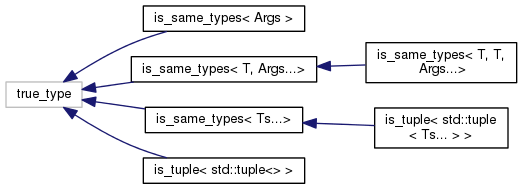
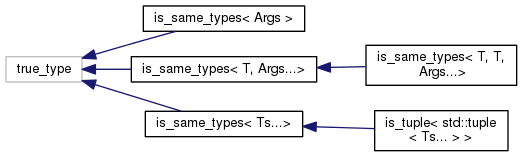
Deploy tatyana-otus/print_ip to github.com/tatyana-otus/print_ip.git:gh-pages

Changed region(s): [[0.0, 0.0256, 1.0, 0.9744], [0.1836, 0.6667, 0.2141, 0.7179]]

diff --git a/print__tuple_8h_source.html b/print__tuple_8h_source.html
@@ -113,42 +113,39 @@ var searchBox = new SearchBox("searchBox", "search",false,'Search');
 <div class="line"><a name="l00035"></a><span class="lineno">   35</span>&#160;<span class="keyword">template</span> &lt;<span class="keyword">typename</span>... Ts&gt; </div>
 <div class="line"><a name="l00036"></a><span class="lineno"><a class="line" href="structis__tuple_3_01std_1_1tuple_3_01Ts_8_8_8_01_4_01_4.html">   36</a></span>&#160;<span class="keyword">struct </span><a class="code" href="structis__tuple.html">is_tuple</a>&lt;std::tuple&lt;Ts... &gt;&gt; : <a class="code" href="structis__same__types.html">is_same_types</a>&lt;Ts...&gt; {};</div>
 <div class="line"><a name="l00037"></a><span class="lineno">   37</span>&#160;</div>
-<div class="line"><a name="l00038"></a><span class="lineno">   38</span>&#160;<span class="keyword">template</span> &lt;&gt; </div>
-<div class="line"><a name="l00039"></a><span class="lineno"><a class="line" href="structis__tuple_3_01std_1_1tuple_3_4_01_4.html">   39</a></span>&#160;<span class="keyword">struct </span><a class="code" href="structis__tuple.html">is_tuple</a>&lt;std::tuple&lt;&gt;&gt; : std::true_type {};</div>
-<div class="line"><a name="l00040"></a><span class="lineno">   40</span>&#160;</div>
+<div class="line"><a name="l00038"></a><span class="lineno">   38</span>&#160;</div>
+<div class="line"><a name="l00039"></a><span class="lineno">   39</span>&#160;<span class="keyword">template</span>&lt; <span class="keyword">typename</span>... Ts&gt;</div>
+<div class="line"><a name="l00040"></a><span class="lineno"><a class="line" href="print__tuple_8h.html#a7f6f282ffeac81407489efbeee474dce">   40</a></span>&#160;constexpr <span class="keywordtype">bool</span> <a class="code" href="print__tuple_8h.html#a7f6f282ffeac81407489efbeee474dce">is_tuple_v</a> = <a class="code" href="structis__tuple.html">is_tuple</a>&lt;Ts...&gt;::value;</div>
 <div class="line"><a name="l00041"></a><span class="lineno">   41</span>&#160;</div>
-<div class="line"><a name="l00042"></a><span class="lineno">   42</span>&#160;<span class="keyword">template</span>&lt; <span class="keyword">typename</span>... Ts&gt;</div>
-<div class="line"><a name="l00043"></a><span class="lineno"><a class="line" href="print__tuple_8h.html#a7f6f282ffeac81407489efbeee474dce">   43</a></span>&#160;constexpr <span class="keywordtype">bool</span> <a class="code" href="print__tuple_8h.html#a7f6f282ffeac81407489efbeee474dce">is_tuple_v</a> = <a class="code" href="structis__tuple.html">is_tuple</a>&lt;Ts...&gt;::value;</div>
-<div class="line"><a name="l00044"></a><span class="lineno">   44</span>&#160;</div>
-<div class="line"><a name="l00048"></a><span class="lineno">   48</span>&#160;<span class="keyword">template</span>&lt;<span class="keyword">typename</span> T, std::<span class="keywordtype">size_t</span> N&gt;</div>
-<div class="line"><a name="l00049"></a><span class="lineno"><a class="line" href="structtuple__p.html">   49</a></span>&#160;<span class="keyword">struct </span><a class="code" href="structtuple__p.html">tuple_p</a> {</div>
-<div class="line"><a name="l00050"></a><span class="lineno"><a class="line" href="structtuple__p.html#a52bdd2099cb15ff7eb9980a1c0945101">   50</a></span>&#160;    <span class="keyword">static</span> <span class="keywordtype">void</span> <a class="code" href="structtuple__p.html#a52bdd2099cb15ff7eb9980a1c0945101">print</a>(std::ostream&amp; os, <span class="keyword">const</span> T&amp; t) </div>
-<div class="line"><a name="l00051"></a><span class="lineno">   51</span>&#160;    {</div>
-<div class="line"><a name="l00052"></a><span class="lineno">   52</span>&#160;        <a class="code" href="structtuple__p.html#a52bdd2099cb15ff7eb9980a1c0945101">tuple_p&lt;T, N-1&gt;::print</a>(os, t);</div>
-<div class="line"><a name="l00053"></a><span class="lineno">   53</span>&#160;        os &lt;&lt; <span class="stringliteral">&quot;.&quot;</span> &lt;&lt; std::get&lt;N-1&gt;(t);</div>
-<div class="line"><a name="l00054"></a><span class="lineno">   54</span>&#160;    }</div>
-<div class="line"><a name="l00055"></a><span class="lineno">   55</span>&#160;};</div>
-<div class="line"><a name="l00056"></a><span class="lineno">   56</span>&#160;</div>
-<div class="line"><a name="l00060"></a><span class="lineno">   60</span>&#160;<span class="keyword">template</span>&lt;<span class="keyword">typename</span> T&gt;</div>
-<div class="line"><a name="l00061"></a><span class="lineno"><a class="line" href="structtuple__p_3_01T_00_011_01_4.html">   61</a></span>&#160;<span class="keyword">struct </span><a class="code" href="structtuple__p.html">tuple_p</a>&lt;T, 1&gt; {</div>
-<div class="line"><a name="l00062"></a><span class="lineno"><a class="line" href="structtuple__p_3_01T_00_011_01_4.html#afb3e838a7fb2352557319b965c6fa982">   62</a></span>&#160;    <span class="keyword">static</span> <span class="keywordtype">void</span> <a class="code" href="structtuple__p_3_01T_00_011_01_4.html#afb3e838a7fb2352557319b965c6fa982">print</a>(std::ostream&amp; os, <span class="keyword">const</span> T&amp; t) </div>
-<div class="line"><a name="l00063"></a><span class="lineno">   63</span>&#160;    {</div>
-<div class="line"><a name="l00064"></a><span class="lineno">   64</span>&#160;        os &lt;&lt; std::get&lt;0&gt;(t);</div>
-<div class="line"><a name="l00065"></a><span class="lineno">   65</span>&#160;    }</div>
-<div class="line"><a name="l00066"></a><span class="lineno">   66</span>&#160;};</div>
-<div class="line"><a name="l00067"></a><span class="lineno">   67</span>&#160;</div>
-<div class="line"><a name="l00071"></a><span class="lineno">   71</span>&#160;<span class="keyword">template</span>&lt;<span class="keyword">typename</span> T&gt;</div>
-<div class="line"><a name="l00072"></a><span class="lineno"><a class="line" href="structtuple__p_3_01T_00_010_01_4.html">   72</a></span>&#160;<span class="keyword">struct </span><a class="code" href="structtuple__p.html">tuple_p</a>&lt;T, 0&gt; {</div>
-<div class="line"><a name="l00073"></a><span class="lineno"><a class="line" href="structtuple__p_3_01T_00_010_01_4.html#adcc1ca29bc3ad189ab5596f4b688982f">   73</a></span>&#160;    <span class="keyword">static</span> <span class="keywordtype">void</span> <a class="code" href="structtuple__p_3_01T_00_010_01_4.html#adcc1ca29bc3ad189ab5596f4b688982f">print</a>(std::ostream&amp; os, <span class="keyword">const</span> T&amp; t) {}</div>
-<div class="line"><a name="l00074"></a><span class="lineno">   74</span>&#160;};</div>
+<div class="line"><a name="l00045"></a><span class="lineno">   45</span>&#160;<span class="keyword">template</span>&lt;<span class="keyword">typename</span> T, std::<span class="keywordtype">size_t</span> N&gt;</div>
+<div class="line"><a name="l00046"></a><span class="lineno"><a class="line" href="structtuple__p.html">   46</a></span>&#160;<span class="keyword">struct </span><a class="code" href="structtuple__p.html">tuple_p</a> {</div>
+<div class="line"><a name="l00047"></a><span class="lineno"><a class="line" href="structtuple__p.html#a52bdd2099cb15ff7eb9980a1c0945101">   47</a></span>&#160;    <span class="keyword">static</span> <span class="keywordtype">void</span> <a class="code" href="structtuple__p.html#a52bdd2099cb15ff7eb9980a1c0945101">print</a>(std::ostream&amp; os, <span class="keyword">const</span> T&amp; t) </div>
+<div class="line"><a name="l00048"></a><span class="lineno">   48</span>&#160;    {</div>
+<div class="line"><a name="l00049"></a><span class="lineno">   49</span>&#160;        <a class="code" href="structtuple__p.html#a52bdd2099cb15ff7eb9980a1c0945101">tuple_p&lt;T, N-1&gt;::print</a>(os, t);</div>
+<div class="line"><a name="l00050"></a><span class="lineno">   50</span>&#160;        os &lt;&lt; <span class="stringliteral">&quot;.&quot;</span> &lt;&lt; std::get&lt;N-1&gt;(t);</div>
+<div class="line"><a name="l00051"></a><span class="lineno">   51</span>&#160;    }</div>
+<div class="line"><a name="l00052"></a><span class="lineno">   52</span>&#160;};</div>
+<div class="line"><a name="l00053"></a><span class="lineno">   53</span>&#160;</div>
+<div class="line"><a name="l00057"></a><span class="lineno">   57</span>&#160;<span class="keyword">template</span>&lt;<span class="keyword">typename</span> T&gt;</div>
+<div class="line"><a name="l00058"></a><span class="lineno"><a class="line" href="structtuple__p_3_01T_00_011_01_4.html">   58</a></span>&#160;<span class="keyword">struct </span><a class="code" href="structtuple__p.html">tuple_p</a>&lt;T, 1&gt; {</div>
+<div class="line"><a name="l00059"></a><span class="lineno"><a class="line" href="structtuple__p_3_01T_00_011_01_4.html#afb3e838a7fb2352557319b965c6fa982">   59</a></span>&#160;    <span class="keyword">static</span> <span class="keywordtype">void</span> <a class="code" href="structtuple__p_3_01T_00_011_01_4.html#afb3e838a7fb2352557319b965c6fa982">print</a>(std::ostream&amp; os, <span class="keyword">const</span> T&amp; t) </div>
+<div class="line"><a name="l00060"></a><span class="lineno">   60</span>&#160;    {</div>
+<div class="line"><a name="l00061"></a><span class="lineno">   61</span>&#160;        os &lt;&lt; std::get&lt;0&gt;(t);</div>
+<div class="line"><a name="l00062"></a><span class="lineno">   62</span>&#160;    }</div>
+<div class="line"><a name="l00063"></a><span class="lineno">   63</span>&#160;};</div>
+<div class="line"><a name="l00064"></a><span class="lineno">   64</span>&#160;</div>
+<div class="line"><a name="l00068"></a><span class="lineno">   68</span>&#160;<span class="keyword">template</span>&lt;<span class="keyword">typename</span> T&gt;</div>
+<div class="line"><a name="l00069"></a><span class="lineno"><a class="line" href="structtuple__p_3_01T_00_010_01_4.html">   69</a></span>&#160;<span class="keyword">struct </span><a class="code" href="structtuple__p.html">tuple_p</a>&lt;T, 0&gt; {</div>
+<div class="line"><a name="l00070"></a><span class="lineno"><a class="line" href="structtuple__p_3_01T_00_010_01_4.html#adcc1ca29bc3ad189ab5596f4b688982f">   70</a></span>&#160;    <span class="keyword">static</span> <span class="keywordtype">void</span> <a class="code" href="structtuple__p_3_01T_00_010_01_4.html#adcc1ca29bc3ad189ab5596f4b688982f">print</a>(std::ostream&amp; os, <span class="keyword">const</span> T&amp; t) {}</div>
+<div class="line"><a name="l00071"></a><span class="lineno">   71</span>&#160;};</div>
 <div class="ttc" id="debug__log_8h_html"><div class="ttname"><a href="debug__log_8h.html">debug_log.h</a></div></div>
-<div class="ttc" id="structtuple__p_html"><div class="ttname"><a href="structtuple__p.html">tuple_p</a></div><div class="ttdef"><b>Definition:</b> print_tuple.h:49</div></div>
+<div class="ttc" id="structtuple__p_html"><div class="ttname"><a href="structtuple__p.html">tuple_p</a></div><div class="ttdef"><b>Definition:</b> print_tuple.h:46</div></div>
 <div class="ttc" id="print__tuple_8h_html_aa6c6bde5fd020a928e6d7b5fe8db7bb0"><div class="ttname"><a href="print__tuple_8h.html#aa6c6bde5fd020a928e6d7b5fe8db7bb0">is_same_v</a></div><div class="ttdeci">constexpr bool is_same_v</div><div class="ttdef"><b>Definition:</b> print_tuple.h:8</div></div>
-<div class="ttc" id="structtuple__p_3_01T_00_011_01_4_html_afb3e838a7fb2352557319b965c6fa982"><div class="ttname"><a href="structtuple__p_3_01T_00_011_01_4.html#afb3e838a7fb2352557319b965c6fa982">tuple_p&lt; T, 1 &gt;::print</a></div><div class="ttdeci">static void print(std::ostream &amp;os, const T &amp;t)</div><div class="ttdef"><b>Definition:</b> print_tuple.h:62</div></div>
-<div class="ttc" id="print__tuple_8h_html_a7f6f282ffeac81407489efbeee474dce"><div class="ttname"><a href="print__tuple_8h.html#a7f6f282ffeac81407489efbeee474dce">is_tuple_v</a></div><div class="ttdeci">constexpr bool is_tuple_v</div><div class="ttdef"><b>Definition:</b> print_tuple.h:43</div></div>
+<div class="ttc" id="structtuple__p_3_01T_00_011_01_4_html_afb3e838a7fb2352557319b965c6fa982"><div class="ttname"><a href="structtuple__p_3_01T_00_011_01_4.html#afb3e838a7fb2352557319b965c6fa982">tuple_p&lt; T, 1 &gt;::print</a></div><div class="ttdeci">static void print(std::ostream &amp;os, const T &amp;t)</div><div class="ttdef"><b>Definition:</b> print_tuple.h:59</div></div>
+<div class="ttc" id="print__tuple_8h_html_a7f6f282ffeac81407489efbeee474dce"><div class="ttname"><a href="print__tuple_8h.html#a7f6f282ffeac81407489efbeee474dce">is_tuple_v</a></div><div class="ttdeci">constexpr bool is_tuple_v</div><div class="ttdef"><b>Definition:</b> print_tuple.h:40</div></div>
 <div class="ttc" id="structis__tuple_html"><div class="ttname"><a href="structis__tuple.html">is_tuple</a></div><div class="ttdef"><b>Definition:</b> print_tuple.h:29</div></div>
-<div class="ttc" id="structtuple__p_3_01T_00_010_01_4_html_adcc1ca29bc3ad189ab5596f4b688982f"><div class="ttname"><a href="structtuple__p_3_01T_00_010_01_4.html#adcc1ca29bc3ad189ab5596f4b688982f">tuple_p&lt; T, 0 &gt;::print</a></div><div class="ttdeci">static void print(std::ostream &amp;os, const T &amp;t)</div><div class="ttdef"><b>Definition:</b> print_tuple.h:73</div></div>
-<div class="ttc" id="structtuple__p_html_a52bdd2099cb15ff7eb9980a1c0945101"><div class="ttname"><a href="structtuple__p.html#a52bdd2099cb15ff7eb9980a1c0945101">tuple_p::print</a></div><div class="ttdeci">static void print(std::ostream &amp;os, const T &amp;t)</div><div class="ttdef"><b>Definition:</b> print_tuple.h:50</div></div>
+<div class="ttc" id="structtuple__p_3_01T_00_010_01_4_html_adcc1ca29bc3ad189ab5596f4b688982f"><div class="ttname"><a href="structtuple__p_3_01T_00_010_01_4.html#adcc1ca29bc3ad189ab5596f4b688982f">tuple_p&lt; T, 0 &gt;::print</a></div><div class="ttdeci">static void print(std::ostream &amp;os, const T &amp;t)</div><div class="ttdef"><b>Definition:</b> print_tuple.h:70</div></div>
+<div class="ttc" id="structtuple__p_html_a52bdd2099cb15ff7eb9980a1c0945101"><div class="ttname"><a href="structtuple__p.html#a52bdd2099cb15ff7eb9980a1c0945101">tuple_p::print</a></div><div class="ttdeci">static void print(std::ostream &amp;os, const T &amp;t)</div><div class="ttdef"><b>Definition:</b> print_tuple.h:47</div></div>
 <div class="ttc" id="structis__same__types_html"><div class="ttname"><a href="structis__same__types.html">is_same_types</a></div><div class="ttdef"><b>Definition:</b> print_tuple.h:15</div></div>
 </div><!-- fragment --></div><!-- contents -->
 <!-- start footer part -->

diff --git a/hierarchy.html b/hierarchy.html
@@ -97,12 +97,11 @@ This inheritance list is sorted roughly, but not completely, alphabetically:</di
 <tr id="row_1_0_" class="even"><td class="entry"><img src="ftv2vertline.png" alt="|" width="16" height="22" /><img src="ftv2node.png" alt="o" width="16" height="22" /><img src="ftv2cl.png" alt="C" width="24" height="22" /><a class="el" href="structis__same__types.html" target="_self">is_same_types&lt; Args &gt;</a></td><td class="desc"></td></tr>
 <tr id="row_1_1_"><td class="entry"><img src="ftv2vertline.png" alt="|" width="16" height="22" /><img id="arr_1_1_" src="ftv2mnode.png" alt="o" width="16" height="22" onclick="toggleFolder('1_1_')"/><img src="ftv2cl.png" alt="C" width="24" height="22" /><a class="el" href="structis__same__types.html" target="_self">is_same_types&lt; T, Args...&gt;</a></td><td class="desc"></td></tr>
 <tr id="row_1_1_0_" class="even"><td class="entry"><img src="ftv2vertline.png" alt="|" width="16" height="22" /><img src="ftv2vertline.png" alt="|" width="16" height="22" /><img src="ftv2lastnode.png" alt="\" width="16" height="22" /><img src="ftv2cl.png" alt="C" width="24" height="22" /><a class="el" href="structis__same__types_3_01T_00_01T_00_01Args_8_8_8_4.html" target="_self">is_same_types&lt; T, T, Args...&gt;</a></td><td class="desc"></td></tr>
-<tr id="row_1_2_"><td class="entry"><img src="ftv2vertline.png" alt="|" width="16" height="22" /><img id="arr_1_2_" src="ftv2mnode.png" alt="o" width="16" height="22" onclick="toggleFolder('1_2_')"/><img src="ftv2cl.png" alt="C" width="24" height="22" /><a class="el" href="structis__same__types.html" target="_self">is_same_types&lt; Ts...&gt;</a></td><td class="desc"></td></tr>
-<tr id="row_1_2_0_" class="even"><td class="entry"><img src="ftv2vertline.png" alt="|" width="16" height="22" /><img src="ftv2vertline.png" alt="|" width="16" height="22" /><img src="ftv2lastnode.png" alt="\" width="16" height="22" /><img src="ftv2cl.png" alt="C" width="24" height="22" /><a class="el" href="structis__tuple_3_01std_1_1tuple_3_01Ts_8_8_8_01_4_01_4.html" target="_self">is_tuple&lt; std::tuple&lt; Ts... &gt; &gt;</a></td><td class="desc"></td></tr>
-<tr id="row_1_3_"><td class="entry"><img src="ftv2vertline.png" alt="|" width="16" height="22" /><img src="ftv2lastnode.png" alt="\" width="16" height="22" /><img src="ftv2cl.png" alt="C" width="24" height="22" /><a class="el" href="structis__tuple_3_01std_1_1tuple_3_4_01_4.html" target="_self">is_tuple&lt; std::tuple&lt;&gt; &gt;</a></td><td class="desc"></td></tr>
-<tr id="row_2_" class="even"><td class="entry"><img src="ftv2node.png" alt="o" width="16" height="22" /><img src="ftv2cl.png" alt="C" width="24" height="22" /><a class="el" href="structtuple__p.html" target="_self">tuple_p&lt; T, N &gt;</a></td><td class="desc"></td></tr>
-<tr id="row_3_"><td class="entry"><img src="ftv2node.png" alt="o" width="16" height="22" /><img src="ftv2cl.png" alt="C" width="24" height="22" /><a class="el" href="structtuple__p_3_01T_00_010_01_4.html" target="_self">tuple_p&lt; T, 0 &gt;</a></td><td class="desc"></td></tr>
-<tr id="row_4_" class="even"><td class="entry"><img src="ftv2lastnode.png" alt="\" width="16" height="22" /><img src="ftv2cl.png" alt="C" width="24" height="22" /><a class="el" href="structtuple__p_3_01T_00_011_01_4.html" target="_self">tuple_p&lt; T, 1 &gt;</a></td><td class="desc"></td></tr>
+<tr id="row_1_2_"><td class="entry"><img src="ftv2vertline.png" alt="|" width="16" height="22" /><img id="arr_1_2_" src="ftv2mlastnode.png" alt="\" width="16" height="22" onclick="toggleFolder('1_2_')"/><img src="ftv2cl.png" alt="C" width="24" height="22" /><a class="el" href="structis__same__types.html" target="_self">is_same_types&lt; Ts...&gt;</a></td><td class="desc"></td></tr>
+<tr id="row_1_2_0_" class="even"><td class="entry"><img src="ftv2vertline.png" alt="|" width="16" height="22" /><img src="ftv2blank.png" alt="&#160;" width="16" height="22" /><img src="ftv2lastnode.png" alt="\" width="16" height="22" /><img src="ftv2cl.png" alt="C" width="24" height="22" /><a class="el" href="structis__tuple_3_01std_1_1tuple_3_01Ts_8_8_8_01_4_01_4.html" target="_self">is_tuple&lt; std::tuple&lt; Ts... &gt; &gt;</a></td><td class="desc"></td></tr>
+<tr id="row_2_"><td class="entry"><img src="ftv2node.png" alt="o" width="16" height="22" /><img src="ftv2cl.png" alt="C" width="24" height="22" /><a class="el" href="structtuple__p.html" target="_self">tuple_p&lt; T, N &gt;</a></td><td class="desc"></td></tr>
+<tr id="row_3_" class="even"><td class="entry"><img src="ftv2node.png" alt="o" width="16" height="22" /><img src="ftv2cl.png" alt="C" width="24" height="22" /><a class="el" href="structtuple__p_3_01T_00_010_01_4.html" target="_self">tuple_p&lt; T, 0 &gt;</a></td><td class="desc"></td></tr>
+<tr id="row_4_"><td class="entry"><img src="ftv2lastnode.png" alt="\" width="16" height="22" /><img src="ftv2cl.png" alt="C" width="24" height="22" /><a class="el" href="structtuple__p_3_01T_00_011_01_4.html" target="_self">tuple_p&lt; T, 1 &gt;</a></td><td class="desc"></td></tr>
 </table>
 </div><!-- directory -->
 </div><!-- contents -->

diff --git a/annotated.html b/annotated.html
@@ -93,10 +93,9 @@ var searchBox = new SearchBox("searchBox", "search",false,'Search');
 <tr id="row_2_" class="even"><td class="entry"><img src="ftv2node.png" alt="o" width="16" height="22" /><img src="ftv2cl.png" alt="C" width="24" height="22" /><a class="el" href="structis__same__types_3_01T_00_01U_00_01Args_8_8_8_4.html" target="_self">is_same_types&lt; T, U, Args...&gt;</a></td><td class="desc"></td></tr>
 <tr id="row_3_"><td class="entry"><img src="ftv2node.png" alt="o" width="16" height="22" /><img src="ftv2cl.png" alt="C" width="24" height="22" /><a class="el" href="structis__tuple.html" target="_self">is_tuple</a></td><td class="desc"></td></tr>
 <tr id="row_4_" class="even"><td class="entry"><img src="ftv2node.png" alt="o" width="16" height="22" /><img src="ftv2cl.png" alt="C" width="24" height="22" /><a class="el" href="structis__tuple_3_01std_1_1tuple_3_01Ts_8_8_8_01_4_01_4.html" target="_self">is_tuple&lt; std::tuple&lt; Ts... &gt; &gt;</a></td><td class="desc"></td></tr>
-<tr id="row_5_"><td class="entry"><img src="ftv2node.png" alt="o" width="16" height="22" /><img src="ftv2cl.png" alt="C" width="24" height="22" /><a class="el" href="structis__tuple_3_01std_1_1tuple_3_4_01_4.html" target="_self">is_tuple&lt; std::tuple&lt;&gt; &gt;</a></td><td class="desc"></td></tr>
-<tr id="row_6_" class="even"><td class="entry"><img src="ftv2node.png" alt="o" width="16" height="22" /><img src="ftv2cl.png" alt="C" width="24" height="22" /><a class="el" href="structtuple__p.html" target="_self">tuple_p</a></td><td class="desc"></td></tr>
-<tr id="row_7_"><td class="entry"><img src="ftv2node.png" alt="o" width="16" height="22" /><img src="ftv2cl.png" alt="C" width="24" height="22" /><a class="el" href="structtuple__p_3_01T_00_010_01_4.html" target="_self">tuple_p&lt; T, 0 &gt;</a></td><td class="desc"></td></tr>
-<tr id="row_8_" class="even"><td class="entry"><img src="ftv2lastnode.png" alt="\" width="16" height="22" /><img src="ftv2cl.png" alt="C" width="24" height="22" /><a class="el" href="structtuple__p_3_01T_00_011_01_4.html" target="_self">tuple_p&lt; T, 1 &gt;</a></td><td class="desc"></td></tr>
+<tr id="row_5_"><td class="entry"><img src="ftv2node.png" alt="o" width="16" height="22" /><img src="ftv2cl.png" alt="C" width="24" height="22" /><a class="el" href="structtuple__p.html" target="_self">tuple_p</a></td><td class="desc"></td></tr>
+<tr id="row_6_" class="even"><td class="entry"><img src="ftv2node.png" alt="o" width="16" height="22" /><img src="ftv2cl.png" alt="C" width="24" height="22" /><a class="el" href="structtuple__p_3_01T_00_010_01_4.html" target="_self">tuple_p&lt; T, 0 &gt;</a></td><td class="desc"></td></tr>
+<tr id="row_7_"><td class="entry"><img src="ftv2lastnode.png" alt="\" width="16" height="22" /><img src="ftv2cl.png" alt="C" width="24" height="22" /><a class="el" href="structtuple__p_3_01T_00_011_01_4.html" target="_self">tuple_p&lt; T, 1 &gt;</a></td><td class="desc"></td></tr>
 </table>
 </div><!-- directory -->
 </div><!-- contents -->

diff --git a/classes.html b/classes.html
@@ -90,10 +90,9 @@ var searchBox = new SearchBox("searchBox", "search",false,'Search');
 <table style="margin: 10px; white-space: nowrap;" align="center" width="95%" border="0" cellspacing="0" cellpadding="0">
 <tr><td rowspan="2" valign="bottom"><a name="letter_i"></a><table border="0" cellspacing="0" cellpadding="0"><tr><td><div class="ah">&#160;&#160;i&#160;&#160;</div></td></tr></table>
 </td><td valign="top"><a class="el" href="structis__same__types_3_01T_00_01T_00_01Args_8_8_8_4.html">is_same_types&lt; T, T, Args...&gt;</a>&#160;&#160;&#160;</td><td valign="top"><a class="el" href="structis__tuple_3_01std_1_1tuple_3_01Ts_8_8_8_01_4_01_4.html">is_tuple&lt; std::tuple&lt; Ts... &gt; &gt;</a>&#160;&#160;&#160;</td><td valign="top"><a class="el" href="structtuple__p_3_01T_00_010_01_4.html">tuple_p&lt; T, 0 &gt;</a>&#160;&#160;&#160;</td></tr>
-<tr><td valign="top"><a class="el" href="structis__same__types_3_01T_00_01U_00_01Args_8_8_8_4.html">is_same_types&lt; T, U, Args...&gt;</a>&#160;&#160;&#160;</td><td valign="top"><a class="el" href="structis__tuple_3_01std_1_1tuple_3_4_01_4.html">is_tuple&lt; std::tuple&lt;&gt; &gt;</a>&#160;&#160;&#160;</td><td valign="top"><a class="el" href="structtuple__p_3_01T_00_011_01_4.html">tuple_p&lt; T, 1 &gt;</a>&#160;&#160;&#160;</td></tr>
-<tr><td valign="top"><a class="el" href="structis__same__types.html">is_same_types</a>&#160;&#160;&#160;</td><td valign="top"><a class="el" href="structis__tuple.html">is_tuple</a>&#160;&#160;&#160;</td><td rowspan="2" valign="bottom"><a name="letter_t"></a><table border="0" cellspacing="0" cellpadding="0"><tr><td><div class="ah">&#160;&#160;t&#160;&#160;</div></td></tr></table>
-</td><td></td></tr>
-<tr><td></td><td></td><td></td></tr>
+<tr><td valign="top"><a class="el" href="structis__same__types_3_01T_00_01U_00_01Args_8_8_8_4.html">is_same_types&lt; T, U, Args...&gt;</a>&#160;&#160;&#160;</td><td rowspan="2" valign="bottom"><a name="letter_t"></a><table border="0" cellspacing="0" cellpadding="0"><tr><td><div class="ah">&#160;&#160;t&#160;&#160;</div></td></tr></table>
+</td><td valign="top"><a class="el" href="structtuple__p_3_01T_00_011_01_4.html">tuple_p&lt; T, 1 &gt;</a>&#160;&#160;&#160;</td></tr>
+<tr><td valign="top"><a class="el" href="structis__same__types.html">is_same_types</a>&#160;&#160;&#160;</td><td valign="top"><a class="el" href="structis__tuple.html">is_tuple</a>&#160;&#160;&#160;</td><td></td></tr>
 <tr><td></td><td></td><td valign="top"><a class="el" href="structtuple__p.html">tuple_p</a>&#160;&#160;&#160;</td><td></td></tr>
 <tr><td></td><td></td><td></td><td></td></tr>
 </table>

diff --git a/inherits.html b/inherits.html
@@ -91,7 +91,7 @@ var searchBox = new SearchBox("searchBox", "search",false,'Search');
 </div><table border="0" cellspacing="10" cellpadding="0">
 <tr><td><img src="inherit_graph_0.png" border="0" alt="" usemap="#is__same__types_3_01Args_01_4"/>
 <map name="is__same__types_3_01Args_01_4" id="is__same__types_3_01Args_01_4">
-<area shape="rect" id="node2" href="structis__same__types.html" title="is_same_types\&lt; Args \&gt;" alt="" coords="143,5,305,32"/><area shape="rect" id="node3" href="structis__same__types.html" title="is_same_types\&lt; T, Args...\&gt;" alt="" coords="131,56,317,83"/><area shape="rect" id="node5" href="structis__same__types.html" title="is_same_types\&lt; Ts...\&gt;" alt="" coords="145,107,303,133"/><area shape="rect" id="node7" href="structis__tuple_3_01std_1_1tuple_3_4_01_4.html" title="is_tuple\&lt; std::tuple\&lt;\&gt; \&gt;" alt="" coords="143,157,305,184"/><area shape="rect" id="node4" href="structis__same__types_3_01T_00_01T_00_01Args_8_8_8_4.html" title="is_same_types\&lt; T, T,\l Args...\&gt;" alt="" coords="366,42,517,83"/><area shape="rect" id="node6" href="structis__tuple_3_01std_1_1tuple_3_01Ts_8_8_8_01_4_01_4.html" title="is_tuple\&lt; std::tuple\l\&lt; Ts... \&gt; \&gt;" alt="" coords="375,107,508,149"/></map>
+<area shape="rect" id="node2" href="structis__same__types.html" title="is_same_types\&lt; Args \&gt;" alt="" coords="143,5,305,32"/><area shape="rect" id="node3" href="structis__same__types.html" title="is_same_types\&lt; T, Args...\&gt;" alt="" coords="131,56,317,83"/><area shape="rect" id="node5" href="structis__same__types.html" title="is_same_types\&lt; Ts...\&gt;" alt="" coords="145,111,303,137"/><area shape="rect" id="node4" href="structis__same__types_3_01T_00_01T_00_01Args_8_8_8_4.html" title="is_same_types\&lt; T, T,\l Args...\&gt;" alt="" coords="366,45,517,86"/><area shape="rect" id="node6" href="structis__tuple_3_01std_1_1tuple_3_01Ts_8_8_8_01_4_01_4.html" title="is_tuple\&lt; std::tuple\l\&lt; Ts... \&gt; \&gt;" alt="" coords="375,110,508,151"/></map>
 </td></tr>
 <tr><td><img src="inherit_graph_1.png" border="0" alt="" usemap="#is__same__types_3_01T_00_01U_00_01Args_8_8_8_4"/>
 <map name="is__same__types_3_01T_00_01U_00_01Args_8_8_8_4" id="is__same__types_3_01T_00_01U_00_01Args_8_8_8_4">

diff --git a/print__ip_8h_source.html b/print__ip_8h_source.html
@@ -160,7 +160,7 @@ var searchBox = new SearchBox("searchBox", "search",false,'Search');
 <div class="ttc" id="debug__log_8h_html"><div class="ttname"><a href="debug__log_8h.html">debug_log.h</a></div></div>
 <div class="ttc" id="print__ip_8h_html_ad08c4f97cceefae52f2d9f64df5ee433"><div class="ttname"><a href="print__ip_8h.html#ad08c4f97cceefae52f2d9f64df5ee433">base_print</a></div><div class="ttdeci">void base_print(std::ostream &amp;os)</div><div class="ttdef"><b>Definition:</b> print_ip.h:81</div></div>
 <div class="ttc" id="lib_8h_html"><div class="ttname"><a href="lib_8h.html">lib.h</a></div></div>
-<div class="ttc" id="structtuple__p_html"><div class="ttname"><a href="structtuple__p.html">tuple_p</a></div><div class="ttdef"><b>Definition:</b> print_tuple.h:49</div></div>
+<div class="ttc" id="structtuple__p_html"><div class="ttname"><a href="structtuple__p.html">tuple_p</a></div><div class="ttdef"><b>Definition:</b> print_tuple.h:46</div></div>
 <div class="ttc" id="print__ip_8h_html_a396e4b8c756441b942c1619de108e56a"><div class="ttname"><a href="print__ip_8h.html#a396e4b8c756441b942c1619de108e56a">is_integral_v</a></div><div class="ttdeci">constexpr bool is_integral_v</div><div class="ttdef"><b>Definition:</b> print_ip.h:13</div></div>
 <div class="ttc" id="print__tuple_8h_html"><div class="ttname"><a href="print__tuple_8h.html">print_tuple.h</a></div></div>
 <div class="ttc" id="print__ip_8h_html_ad05b39097fc0ad98456c20f2254ed672"><div class="ttname"><a href="print__ip_8h.html#ad05b39097fc0ad98456c20f2254ed672">print</a></div><div class="ttdeci">void print(std::ostream &amp;os, const std::string &amp;ip)</div><div class="ttdef"><b>Definition:</b> print_ip.h:20</div></div>

diff --git a/version_8h.html b/version_8h.html
@@ -104,7 +104,7 @@ This graph shows which files directly or indirectly include this file:</div>
 Macros</h2></td></tr>
 <tr class="memitem:abecd2198575b690d25a741857f8390d1"><td class="memItemLeft" align="right" valign="top">#define&#160;</td><td class="memItemRight" valign="bottom"><a class="el" href="version_8h.html#abecd2198575b690d25a741857f8390d1">PROJECT_VERSION_MAJOR</a>&#160;&#160;&#160;1</td></tr>
 <tr class="separator:abecd2198575b690d25a741857f8390d1"><td class="memSeparator" colspan="2">&#160;</td></tr>
-<tr class="memitem:a4a5fc96a4bdd7d68ed99ccce9ca2e77e"><td class="memItemLeft" align="right" valign="top">#define&#160;</td><td class="memItemRight" valign="bottom"><a class="el" href="version_8h.html#a4a5fc96a4bdd7d68ed99ccce9ca2e77e">PROJECT_VERSION_PATCH</a>&#160;&#160;&#160;11</td></tr>
+<tr class="memitem:a4a5fc96a4bdd7d68ed99ccce9ca2e77e"><td class="memItemLeft" align="right" valign="top">#define&#160;</td><td class="memItemRight" valign="bottom"><a class="el" href="version_8h.html#a4a5fc96a4bdd7d68ed99ccce9ca2e77e">PROJECT_VERSION_PATCH</a>&#160;&#160;&#160;12</td></tr>
 <tr class="separator:a4a5fc96a4bdd7d68ed99ccce9ca2e77e"><td class="memSeparator" colspan="2">&#160;</td></tr>
 </table>
 <h2 class="groupheader">Macro Definition Documentation</h2>
@@ -125,7 +125,7 @@ Macros</h2></td></tr>
 <div class="memproto">
       <table class="memname">
         <tr>
-          <td class="memname">#define PROJECT_VERSION_PATCH&#160;&#160;&#160;11</td>
+          <td class="memname">#define PROJECT_VERSION_PATCH&#160;&#160;&#160;12</td>
         </tr>
       </table>
 </div><div class="memdoc">

diff --git a/print__tuple_8h.html b/print__tuple_8h.html
@@ -123,8 +123,6 @@ Classes</h2></td></tr>
 <tr class="separator:"><td class="memSeparator" colspan="2">&#160;</td></tr>
 <tr class="memitem:"><td class="memItemLeft" align="right" valign="top">struct &#160;</td><td class="memItemRight" valign="bottom"><a class="el" href="structis__tuple_3_01std_1_1tuple_3_01Ts_8_8_8_01_4_01_4.html">is_tuple&lt; std::tuple&lt; Ts... &gt; &gt;</a></td></tr>
 <tr class="separator:"><td class="memSeparator" colspan="2">&#160;</td></tr>
-<tr class="memitem:"><td class="memItemLeft" align="right" valign="top">struct &#160;</td><td class="memItemRight" valign="bottom"><a class="el" href="structis__tuple_3_01std_1_1tuple_3_4_01_4.html">is_tuple&lt; std::tuple&lt;&gt; &gt;</a></td></tr>
-<tr class="separator:"><td class="memSeparator" colspan="2">&#160;</td></tr>
 <tr class="memitem:"><td class="memItemLeft" align="right" valign="top">struct &#160;</td><td class="memItemRight" valign="bottom"><a class="el" href="structtuple__p.html">tuple_p&lt; T, N &gt;</a></td></tr>
 <tr class="separator:"><td class="memSeparator" colspan="2">&#160;</td></tr>
 <tr class="memitem:"><td class="memItemLeft" align="right" valign="top">struct &#160;</td><td class="memItemRight" valign="bottom"><a class="el" href="structtuple__p_3_01T_00_011_01_4.html">tuple_p&lt; T, 1 &gt;</a></td></tr>

diff --git a/version_8h_source.html b/version_8h_source.html
@@ -92,7 +92,7 @@ var searchBox = new SearchBox("searchBox", "search",false,'Search');
 <div class="line"><a name="l00002"></a><span class="lineno">    2</span>&#160;<span class="preprocessor"></span></div>
 <div class="line"><a name="l00003"></a><span class="lineno"><a class="line" href="version_8h.html#abecd2198575b690d25a741857f8390d1">    3</a></span>&#160;<span class="preprocessor">#define PROJECT_VERSION_MAJOR 1</span></div>
 <div class="line"><a name="l00004"></a><span class="lineno">    4</span>&#160;<span class="preprocessor"></span><span class="comment">/* #undef PROJECT_VERSION_MINOR */</span></div>
-<div class="line"><a name="l00005"></a><span class="lineno"><a class="line" href="version_8h.html#a4a5fc96a4bdd7d68ed99ccce9ca2e77e">    5</a></span>&#160;<span class="preprocessor">#define PROJECT_VERSION_PATCH 11</span></div>
+<div class="line"><a name="l00005"></a><span class="lineno"><a class="line" href="version_8h.html#a4a5fc96a4bdd7d68ed99ccce9ca2e77e">    5</a></span>&#160;<span class="preprocessor">#define PROJECT_VERSION_PATCH 12</span></div>
 </div><!-- fragment --></div><!-- contents -->
 <!-- start footer part -->
 <hr class="footer"/><address class="footer"><small>

diff --git a/search/classes_0.js b/search/classes_0.js
@@ -6,6 +6,5 @@ var searchData=
   ['is_5fsame_5ftypes_3c_20t_2c_20u_2c_20args_2e_2e_2e_3e',['is_same_types&lt; T, U, Args...&gt;',['../structis__same__types_3_01T_00_01U_00_01Args_8_8_8_4.html',1,'']]],
   ['is_5fsame_5ftypes_3c_20ts_2e_2e_2e_3e',['is_same_types&lt; Ts...&gt;',['../structis__same__types.html',1,'']]],
   ['is_5ftuple',['is_tuple',['../structis__tuple.html',1,'']]],
-  ['is_5ftuple_3c_20std_3a_3atuple_3c_20ts_2e_2e_2e_20_3e_20_3e',['is_tuple&lt; std::tuple&lt; Ts... &gt; &gt;',['../structis__tuple_3_01std_1_1tuple_3_01Ts_8_8_8_01_4_01_4.html',1,'']]],
-  ['is_5ftuple_3c_20std_3a_3atuple_3c_3e_20_3e',['is_tuple&lt; std::tuple&lt;&gt; &gt;',['../structis__tuple_3_01std_1_1tuple_3_4_01_4.html',1,'']]]
+  ['is_5ftuple_3c_20std_3a_3atuple_3c_20ts_2e_2e_2e_20_3e_20_3e',['is_tuple&lt; std::tuple&lt; Ts... &gt; &gt;',['../structis__tuple_3_01std_1_1tuple_3_01Ts_8_8_8_01_4_01_4.html',1,'']]]
 ];

diff --git a/search/all_2.js b/search/all_2.js
@@ -9,6 +9,5 @@ var searchData=
   ['is_5fsame_5fv',['is_same_v',['../print__tuple_8h.html#aa6c6bde5fd020a928e6d7b5fe8db7bb0',1,'print_tuple.h']]],
   ['is_5ftuple',['is_tuple',['../structis__tuple.html',1,'']]],
   ['is_5ftuple_3c_20std_3a_3atuple_3c_20ts_2e_2e_2e_20_3e_20_3e',['is_tuple&lt; std::tuple&lt; Ts... &gt; &gt;',['../structis__tuple_3_01std_1_1tuple_3_01Ts_8_8_8_01_4_01_4.html',1,'']]],
-  ['is_5ftuple_3c_20std_3a_3atuple_3c_3e_20_3e',['is_tuple&lt; std::tuple&lt;&gt; &gt;',['../structis__tuple_3_01std_1_1tuple_3_4_01_4.html',1,'']]],
   ['is_5ftuple_5fv',['is_tuple_v',['../print__tuple_8h.html#a7f6f282ffeac81407489efbeee474dce',1,'print_tuple.h']]]
 ];
